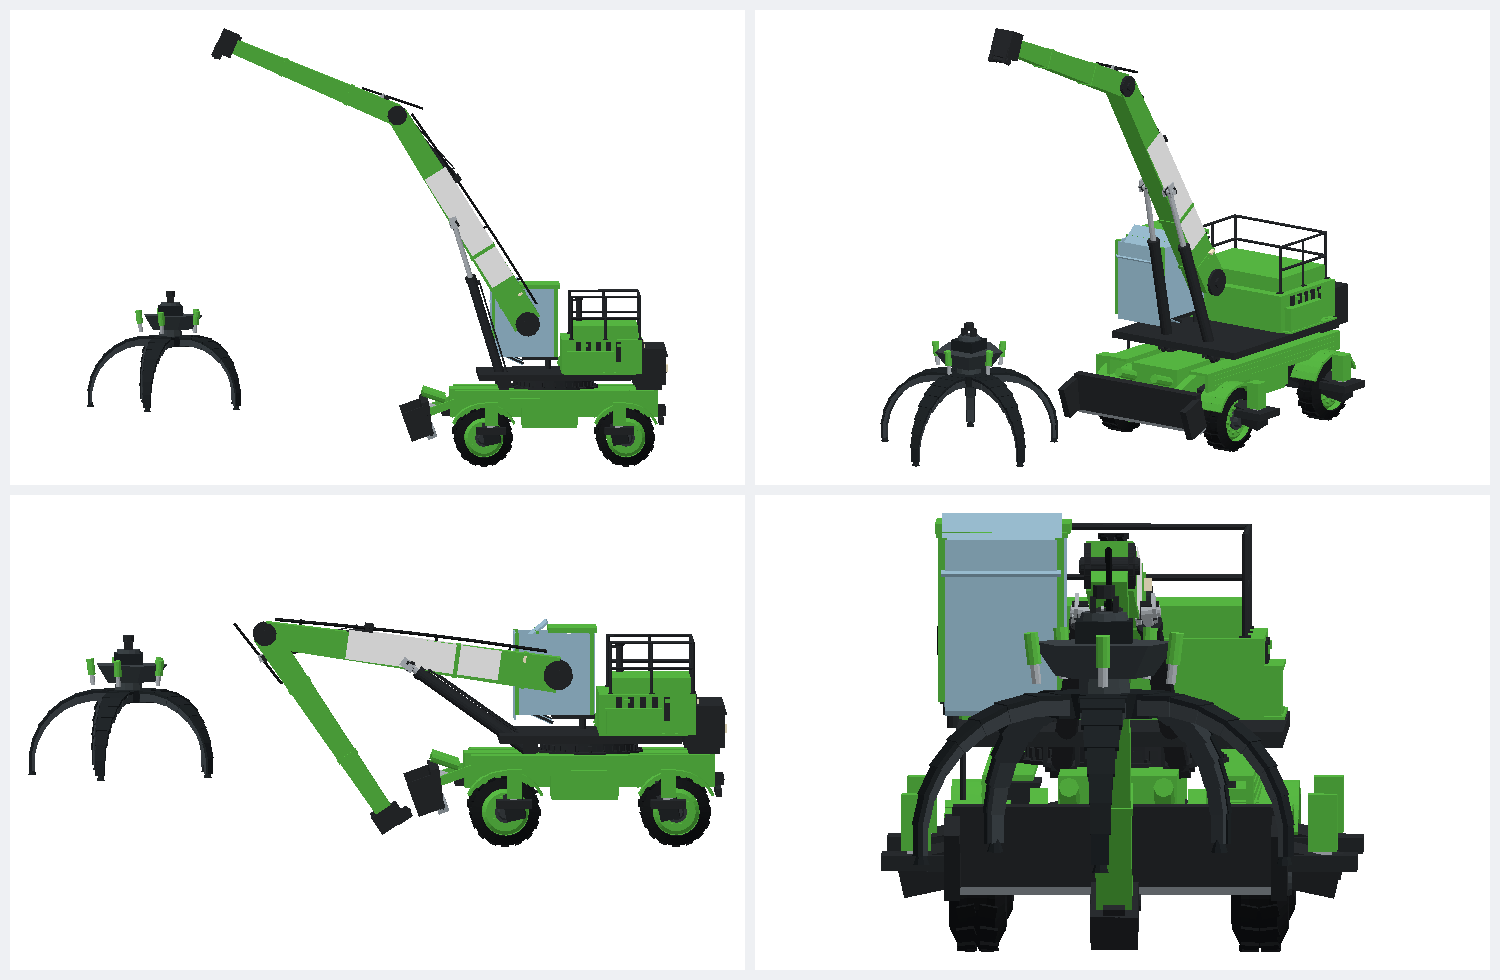
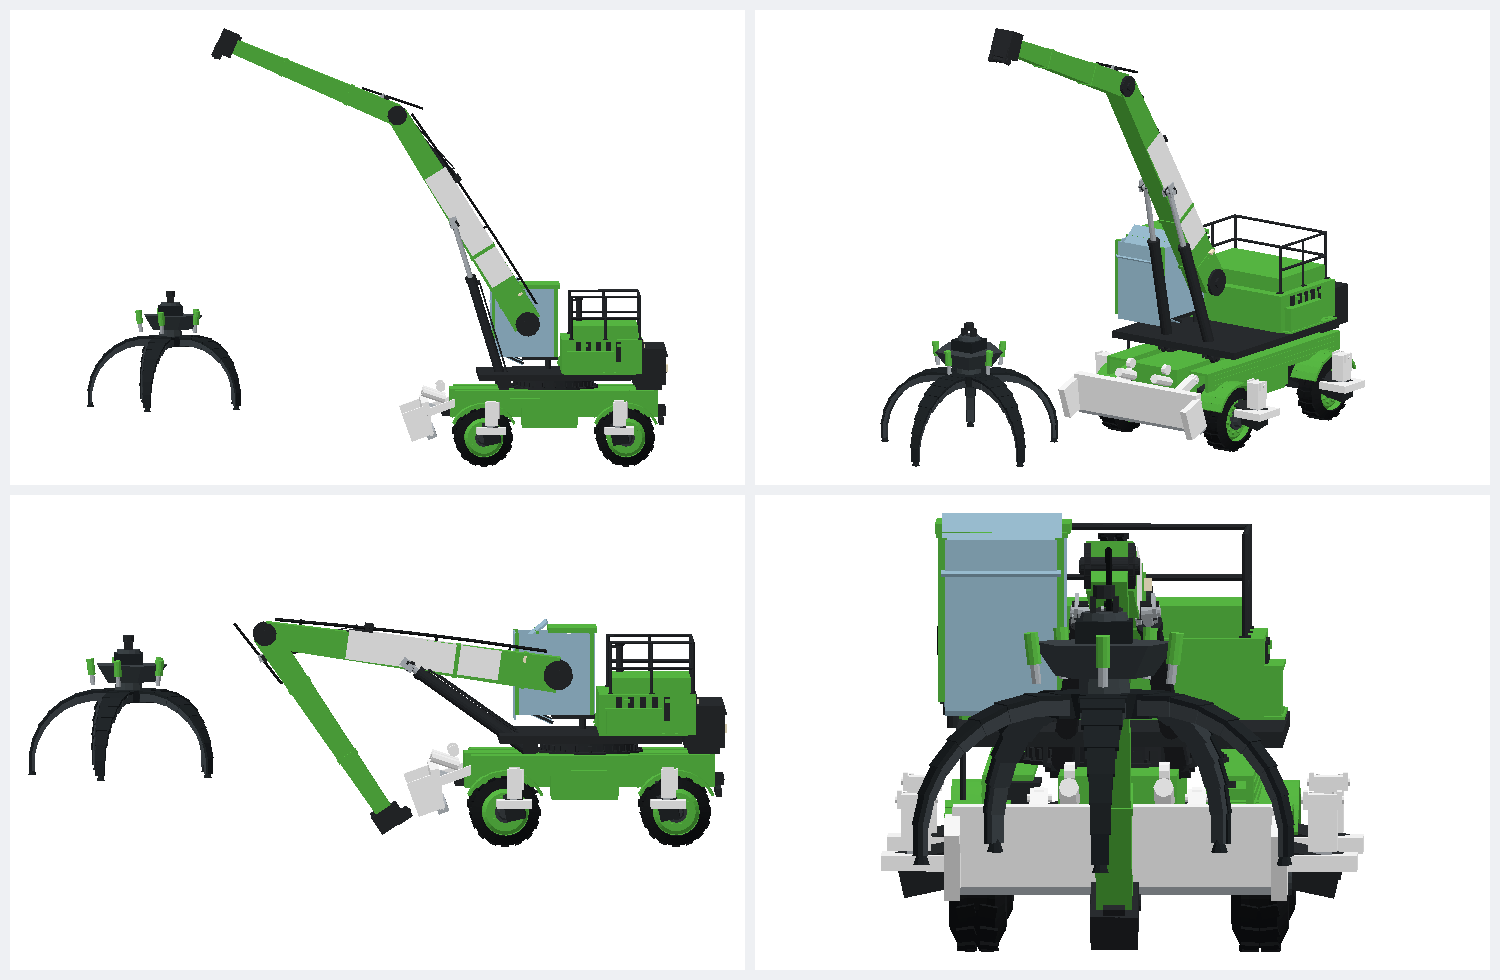
Raeumschild und Pratzen: zusammenfassen, was gemeinsam schwenkt
Baugruppen 01x und 03 aus E-025.

Das Raeumschild kostete zehn Netze, obwohl Blatt, Schneide, Wangen, Streben,
Zylinder und Kolbenstangen gemeinsam auf- und abschwenken und sich nichts
davon gegen etwas anderes bewegt. Jetzt zwei: ein buntes Netz fuer alles Matte
(anthrazit und gruen ueber Eckfarben) und eins fuer den blanken Stahl —
Schneide und Kolbenstangen. Blanker Stahl ist nicht nur eine andere Farbe,
sondern eine andere Oberflaeche; das laesst sich nicht ueber Eckfarben
erschlagen. Neu sind vier Augen und zwei Bolzen an den Anlenkpunkten.

Die vier Pratzenfuesse kosteten zwoelf Netze, obwohl Kasten, Stempel und
Teller gemeinsam ausfahren. Jetzt acht: je Fuss ein buntes Netz (Kasten,
Teller, zwei Lagerboecke, Bolzen, zwei Schlauchstuecke) und der blanke
Stempel.

Form und Lage sind unveraendert — beides hat Patrick am 12.09.2026 selbst
eingestellt.

Gemessen 107 -> 95 Netze, 20.432 -> 21.072 Dreiecke, 147 -> 131 Zeichenrufe.

diff --git a/v1/src/excavator/schildParts.ts b/v1/src/excavator/schildParts.ts
@@ -1,0 +1,157 @@
+import * as THREE from "three";
+import { verschmelze, verschmelzeBunt, type Bauteil } from "./bauteile";
+
+/**
+ * Räumschild und Abstützpratzen, Bauteil für Bauteil.
+ *
+ * Teileliste `docs/baggerkonzept.md` Abschnitte 01x (Räumschild, 16 Teile,
+ * 2 Netze) und 03 (Abstützung, 28 Teile, 8 Netze). Beschlossen in E-025.
+ *
+ * WARUM SIE HIER ZUSAMMEN STEHEN: Beides sind BEWEGTE Gruppen am Fahrwerk, und
+ * beide bestanden aus lauter Einzelteilen, die sich untereinander gar nicht
+ * bewegen. Das Räumschild kostete 10 Netze, obwohl Blatt, Schneide, Wangen,
+ * Streben und Zylinder gemeinsam auf- und abschwenken; die vier Pratzenfüße
+ * kosteten 12, obwohl Kasten, Stempel und Teller gemeinsam ausfahren.
+ *
+ * FORM UND LAGE ÄNDERN SICH NICHT. Beide wurden am 12.09.2026 von Patrick
+ * eingestellt („nicht so runde Stuetzen, sondern schmale herausstehende
+ * Stuetzen mit eckigen Bodenplatten"; Pratzen „eher fuenfzig Zentimeter oder
+ * dreissig" heraus). Hier wird nur zusammengefasst und ergänzt — kein Maß
+ * wandert.
+ */
+
+/** Anthrazit — Blatt, Wangen, Teller. Unverändert. */
+const DUNKEL = 0x2b2e31;
+/** Maschinengrün — Streben, Zylinderrohre, Pratzenkasten. Unverändert. */
+const GRUEN = 0x5bbf46;
+
+/* ------------------------------------------------------------- Räumschild */
+
+/**
+ * Das Räumschild als BUNTES Netz: Blatt, Schneidenrücken, zwei Seitenwangen,
+ * zwei Streben, zwei Zylinderrohre, vier Augen, zwei Bolzen.
+ *
+ * Bunt, weil Blatt und Wangen anthrazit sind und Streben und Zylinder grün —
+ * zwei Farben, aber ein einziger Starrkörper. Über Eckfarben kostet das ein
+ * Netz statt zwei (`bauteile.ts`).
+ *
+ * @param breite Schildbreite (m) — `BLADE_W` aus `excavator.ts`
+ */
+export function schildKoerper(breite: number): THREE.BufferGeometry {
+  const teile: Bauteil[] = [];
+  // Schildblatt, leicht nach vorn geneigt — unverändert
+  const blatt = new THREE.BoxGeometry(breite, 0.72, 0.16);
+  blatt.rotateX(-0.22);
+  blatt.translate(0, 0.42, 0);
+  teile.push({ geo: blatt, farbe: DUNKEL });
+  // Seitenwangen, damit das Material nicht seitlich wegläuft — unverändert
+  for (const s of [-1, 1]) {
+    const wange = new THREE.BoxGeometry(0.14, 0.62, 0.5);
+    wange.translate((s * breite) / 2, 0.4, 0.22);
+    teile.push({ geo: wange, farbe: DUNKEL });
+  }
+  for (const s of [-1, 1]) {
+    // Strebe zum Fahrgestell — unverändert
+    const strebe = new THREE.BoxGeometry(0.16, 0.16, 0.9);
+    strebe.translate(s * 0.7, 0.5, -0.45);
+    teile.push({ geo: strebe, farbe: GRUEN });
+    // Zylinderrohr — unverändert in Lage und Neigung
+    const rohr = new THREE.CylinderGeometry(0.09, 0.09, 0.5, 8);
+    rohr.rotateX(0.9);
+    rohr.translate(s * 0.42, 0.78, -0.3);
+    teile.push({ geo: rohr, farbe: GRUEN });
+    /*
+     * NEU: die vier Augen und die zwei Bolzen (Konzept 01x). Sie sitzen an
+     * den Enden von Strebe und Zylinder — dort, wo das Schild am Fahrgestell
+     * hängt. Ohne sie endete die Strebe stumpf in der Luft, genau wie vor dem
+     * Umbau der Ausleger an beiden Enden.
+     */
+    for (const [y, z] of [
+      [0.5, -0.87],
+      [0.9, -0.5],
+    ] as const) {
+      const auge = new THREE.CylinderGeometry(0.1, 0.1, 0.09, 10);
+      auge.rotateZ(Math.PI / 2);
+      auge.translate(s * (y > 0.7 ? 0.42 : 0.7), y, z);
+      teile.push({ geo: auge, farbe: DUNKEL });
+    }
+    const bolzen = new THREE.CylinderGeometry(0.04, 0.04, 0.22, 8);
+    bolzen.rotateZ(Math.PI / 2);
+    bolzen.translate(s * 0.7, 0.5, -0.87);
+    teile.push({ geo: bolzen, farbe: DUNKEL });
+  }
+  return verschmelzeBunt(teile, "Raeumschild");
+}
+
+/**
+ * Der blanke Stahl am Räumschild: die Schneide und die beiden Kolbenstangen.
+ *
+ * Eigenes Netz, weil blanker Stahl nicht nur eine andere FARBE hat, sondern
+ * eine andere Oberfläche (metallisch, glatt). Das lässt sich nicht über
+ * Eckfarben erschlagen.
+ */
+export function schildSchneide(breite: number): THREE.BufferGeometry {
+  const teile: THREE.BufferGeometry[] = [];
+  const schneide = new THREE.BoxGeometry(breite, 0.14, 0.2);
+  schneide.translate(0, 0.07, 0.03);
+  teile.push(schneide);
+  for (const s of [-1, 1]) {
+    const stange = new THREE.CylinderGeometry(0.05, 0.05, 0.34, 8);
+    stange.rotateX(0.9);
+    stange.translate(s * 0.42, 0.55, -0.16);
+    teile.push(stange);
+  }
+  return verschmelze(teile, "Raeumschildschneide");
+}
+
+/* -------------------------------------------------------------- Pratzenfuß */
+
+/**
+ * Ein Pratzenfuß als BUNTES Netz: Kasten, Tellerfuß, zwei Lagerböcke, Bolzen,
+ * zwei Schlauchstücke.
+ *
+ * Alles daran fährt GEMEINSAM aus — es bewegt sich nichts gegeneinander, also
+ * ein Netz. Vorher waren es drei je Fuß, zwölf im ganzen.
+ *
+ * Die Form von Kasten und Teller ist unverändert (Ansage 12.09.2026: „eckige
+ * Bodenplatten").
+ */
+export function pratzeFuss(): THREE.BufferGeometry {
+  const teile: Bauteil[] = [];
+  const kasten = new THREE.BoxGeometry(0.26, 0.5, 0.26);
+  kasten.translate(0, 0.42, 0);
+  teile.push({ geo: kasten, farbe: GRUEN });
+  const teller = new THREE.BoxGeometry(0.62, 0.14, 0.62);
+  teller.translate(0, 0.07, 0);
+  teile.push({ geo: teller, farbe: DUNKEL });
+  /*
+   * NEU (Konzept 03): zwei Lagerböcke am Kopf des Kastens, ein Bolzen quer
+   * hindurch und zwei Schlauchstücke. Sie sind das, woran man sieht, dass die
+   * Pratze hydraulisch fährt und nicht angeschraubt ist.
+   */
+  for (const s of [-1, 1]) {
+    const bock = new THREE.BoxGeometry(0.04, 0.16, 0.2);
+    bock.translate(s * 0.15, 0.62, 0);
+    teile.push({ geo: bock, farbe: DUNKEL });
+  }
+  const bolzen = new THREE.CylinderGeometry(0.035, 0.035, 0.38, 8);
+  bolzen.rotateZ(Math.PI / 2);
+  bolzen.translate(0, 0.62, 0);
+  teile.push({ geo: bolzen, farbe: DUNKEL });
+  for (const s of [-1, 1]) {
+    const schlauch = new THREE.CylinderGeometry(0.022, 0.022, 0.36, 6);
+    schlauch.translate(s * 0.1, 0.5, -0.15);
+    teile.push({ geo: schlauch, farbe: 0x1c1e20 });
+  }
+  return verschmelzeBunt(teile, "Pratzenfuss");
+}
+
+/**
+ * Der blanke Stempel eines Pratzenfußes — das Teil, das sichtbar im Kasten
+ * steckt. Eigenes Netz wegen der metallischen Oberfläche. Form unverändert.
+ */
+export function pratzeStempel(): THREE.BufferGeometry {
+  const g = new THREE.BoxGeometry(0.17, 0.35, 0.17);
+  g.translate(0, 0.14, 0);
+  return g;
+}

diff --git a/v1/src/excavator/excavator.ts b/v1/src/excavator/excavator.ts
@@ -19,6 +19,8 @@ import {
   stielStahl,
 } from "./armParts";
 import { oberwagenLack, oberwagenLeuchten, oberwagenStahl } from "./oberwagenParts";
+import { pratzeFuss, pratzeStempel, schildKoerper, schildSchneide } from "./schildParts";
+import { farbstoff } from "./bauteile";
 import { unterwagenLack, unterwagenStahl } from "./unterwagenParts";
 import { BAGGER_STAND } from "../world/baggerstand";
 import {
@@ -1323,6 +1325,14 @@ export class Excavator {
     });
     this.buildBlade(darkMat, frameMat, rodMat);
 
+    /*
+     * Die Geometrie eines Pratzenfußes wird EINMAL gebaut und von allen vier
+     * Füßen geteilt — wie beim Rad. Das spart Speicher, nicht Zeichenrufe:
+     * Die kostet jedes Netz einzeln, gleich welche Geometrie darin steckt.
+     */
+    const pratzenGeo = { fuss: pratzeFuss(), stempel: pratzeStempel() };
+    const pratzenStoff = farbstoff(0.7);
+
     const UP = new THREE.Vector3(0, 1, 0);
     for (const [sx, sz] of [
       [-1, 1],
@@ -1363,21 +1373,23 @@ export class Excavator {
        * angeschweisstem Stahl aussehen, also ein schlankes Kastenprofil, das
        * nach unten leicht zulaeuft.
        */
-      const cyl = new THREE.Mesh(new THREE.BoxGeometry(0.26, 0.5, 0.26), frameMat);
-      cyl.position.y = 0.42;
-      cyl.castShadow = true;
-      cyl.name = `03_PRATZE_${e}_KASTEN`;
-      foot.add(cyl);
-      const rod = new THREE.Mesh(new THREE.BoxGeometry(0.17, 0.35, 0.17), rodMat);
-      rod.position.y = 0.14;
-      rod.name = `03_PRATZE_${e}_STEMPEL`;
-      foot.add(rod);
-      const pad = new THREE.Mesh(new THREE.BoxGeometry(0.62, 0.14, 0.62), darkMat);
-      pad.position.y = 0.07;
-      pad.castShadow = true;
-      pad.name = `03_PRATZE_${e}_TELLER`;
-      foot.add(pad);
+      /*
+       * ZWEI Netze je Fuß statt drei (Konzept 03): Kasten, Teller, Lagerböcke,
+       * Bolzen und Schläuche fahren gemeinsam aus und liegen deshalb in einem
+       * bunten Netz; nur der blanke Stempel bleibt eigen, weil blanker Stahl
+       * eine andere Oberfläche hat und nicht nur eine andere Farbe.
+       * Teil für Teil in `schildParts.ts`.
+       */
+      const fuss = new THREE.Mesh(pratzenGeo.fuss, pratzenStoff);
+      fuss.castShadow = true;
+      fuss.name = `03_PRATZE_${e}_FUSS`;
+      foot.add(fuss);
+      const stempel = new THREE.Mesh(pratzenGeo.stempel, rodMat);
+      stempel.name = `03_PRATZE_${e}_STEMPEL`;
+      foot.add(stempel);
       void UP;
+      void frameMat;
+      void darkMat;
     }
   }
 
@@ -2642,46 +2654,23 @@ export class Excavator {
     this.root.add(g);
     this.bladeGroup = g;
 
-    // Schildblatt: leicht nach vorn geneigt, mit umlaufender Kante
-    const blade = new THREE.Mesh(new THREE.BoxGeometry(BLADE_W, 0.72, 0.16), dark);
-    blade.position.set(0, 0.42, 0);
-    blade.rotation.x = -0.22;
-    blade.castShadow = true;
-    blade.name = "01_RAEUMSCHILD_BLATT";
-    g.add(blade);
-    // Schneide unten, hell abgesetzt wie angeschliffener Stahl
-    const edge = new THREE.Mesh(
-      new THREE.BoxGeometry(BLADE_W, 0.14, 0.2),
-      new THREE.MeshStandardMaterial({ color: 0x9aa2a8, roughness: 0.4, metalness: 0.9 })
-    );
-    edge.position.set(0, 0.07, 0.03);
-    edge.name = "01_RAEUMSCHILD_SCHNEIDE";
-    g.add(edge);
-    // Seitenwangen, damit das Material nicht seitlich wegläuft
-    for (const s of [-1, 1]) {
-      const wing = new THREE.Mesh(new THREE.BoxGeometry(0.14, 0.62, 0.5), dark);
-      wing.position.set((s * BLADE_W) / 2, 0.4, 0.22);
-      wing.name = `01_RAEUMSCHILD_WANGE_${s > 0 ? "L" : "R"}`;
-      g.add(wing);
-    }
-    // Verstrebungen zum Fahrgestell samt Hubzylinder
-    for (const s of [-1, 1]) {
-      const seite = s > 0 ? "L" : "R";
-      const arm = new THREE.Mesh(new THREE.BoxGeometry(0.16, 0.16, 0.9), frame);
-      arm.position.set(s * 0.7, 0.5, -0.45);
-      arm.name = `01_RAEUMSCHILD_STREBE_${seite}`;
-      g.add(arm);
-      const cyl = new THREE.Mesh(new THREE.CylinderGeometry(0.09, 0.09, 0.5, 8), frame);
-      cyl.position.set(s * 0.42, 0.78, -0.3);
-      cyl.rotation.x = 0.9;
-      cyl.name = `01_RAEUMSCHILD_ZYLINDER_${seite}`;
-      g.add(cyl);
-      const piston = new THREE.Mesh(new THREE.CylinderGeometry(0.05, 0.05, 0.34, 8), rod);
-      piston.position.set(s * 0.42, 0.55, -0.16);
-      piston.rotation.x = 0.9;
-      piston.name = `01_RAEUMSCHILD_STANGE_${seite}`;
-      g.add(piston);
-    }
+    /*
+     * Schild und Schneide — ZWEI Netze für 16 Teile (Konzept 01x).
+     *
+     * Vorher waren es zehn: Blatt, Schneide, zwei Wangen, zwei Streben, zwei
+     * Zylinder, zwei Kolbenstangen. Alle schwenken gemeinsam auf und ab; keins
+     * bewegt sich gegen ein anderes. Neu sind vier Augen und zwei Bolzen an
+     * den Anlenkpunkten. Teil für Teil in `schildParts.ts`.
+     */
+    const blatt = new THREE.Mesh(schildKoerper(BLADE_W), farbstoff(0.8));
+    blatt.castShadow = true;
+    blatt.name = "01_RAEUMSCHILD_BLATT";
+    g.add(blatt);
+    const schneide = new THREE.Mesh(schildSchneide(BLADE_W), rod);
+    schneide.name = "01_RAEUMSCHILD_SCHNEIDE";
+    g.add(schneide);
+    void dark;
+    void frame;
   }
 
   /** Zustand fürs Bordinstrument zusammenstellen. */

diff --git a/v1/test/baggerteile.test.ts b/v1/test/baggerteile.test.ts
@@ -130,7 +130,9 @@ describe("Positionsliste des Baggers", () => {
       "02_RAD_VR",
       "02_RAD_HL",
       "02_RAD_HR",
-      "03_PRATZE_VL_TELLER",
+      "03_PRATZE_VL_FUSS",
+      "03_PRATZE_VL_STEMPEL",
+      "01_RAEUMSCHILD_SCHNEIDE",
       "04_DREHKRANZ",
       "05_MOTORHAUBE",
       "05_LEUCHTEN",
@@ -188,9 +190,14 @@ describe("Positionsliste des Baggers", () => {
      * Gegengewicht) plus die Deckplatte wurden drei: Lack, Stahl, Leuchten.
      * `05_GEGENGEWICHT` heisst deshalb nicht mehr so — es liegt im Stahl-Netz
      * `04_DREHKRANZ`, wo auch der Drehkranzdeckel steckt.
+     *
+     * Stand 15.09.2026 nach Raeumschild und Pratzen: 95 Netze, 21 072
+     * Dreiecke, 131 Zeichenrufe. Das Schild ging von 10 auf 2, die vier
+     * Pratzenfuesse von 12 auf 8 — in beiden Faellen bewegt sich innerhalb der
+     * Gruppe nichts gegeneinander.
      */
     const meshes = baggerMeshes();
-    expect(meshes.length, "Bauteilzahl am Bagger").toBe(107);
+    expect(meshes.length, "Bauteilzahl am Bagger").toBe(95);
   });
 });
 
